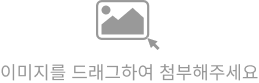
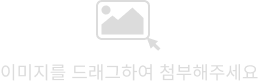
0409_YOO 문의 뼈대제작 진행중...

diff --git a/src/main/resources/templates/backend/book/add.html b/src/main/resources/templates/backend/book/add.html
@@ -36,7 +36,7 @@
             <p>도서표지</p>
             <div id="drop_zone" class="drag_img_form">
               <img id="image-preview" alt="">
-              <button type="button" class="img_delete_btn"></button>
+              <button type="button" class="img_delete_btn" onclick="clickdelete()"></button>
             </div>
             <input type="text" th:field="*{bookImg}" class="image-input-form" placeholder="이미지를 첨부해주세요." readonly>
 
@@ -87,7 +87,7 @@
           <br>
           <div class="add_input_wrap">
             <p>책파일</p>
-            <input type="file" th:field="*{bookFile}" placeholder="*PDF 파일만 첨부가 가능합니다.">
+            <input type="text" th:field="*{bookFile}" placeholder="*PDF 파일만 첨부가 가능합니다." class="text_drag">
           </div>
           <div class="add_input_wrap">
             <p>전자도서 판매가</p>
@@ -122,13 +122,19 @@
   ['dragenter', 'dragover'].forEach(eventName => {
     document.getElementById('drop_zone').addEventListener(eventName, highlight, false)
   });
-
-  ['dragleave', 'drop'].forEach(eventName => {
+  ['dropleave'].forEach(eventName => {
+    document.getElementById('drop_zone').addEventListener(eventName, highlightlv, false)
+  });
+  ['drop'].forEach(eventName => {
     document.getElementById('drop_zone').addEventListener(eventName, unhighlight, false)
   });
 
   function highlight(e) {
-    document.getElementById('drop_zone').style.backgroundColor = '#dcdcdc';
+    document.getElementById('drop_zone').style.backgroundColor = '#fafafa';
+  }
+
+  function highlightlv(e) {
+    document.getElementById('drop_zone').style.backgroundColor = '#ffffff';
   }
 
   function unhighlight(e) {
@@ -157,12 +163,99 @@
     reader.onloadend = function() {
       let img = document.getElementById('image-preview');
       let deleteBtn = document.querySelector('.img_delete_btn');
+      let dropZone = document.getElementById('drop_zone');
       img.src = reader.result;
       deleteBtn.style.display = 'block';
+<!--      dropZone.style.backgroundImage = 'url()';-->
     }
     reader.readAsDataURL(file);
   }
 
+  function clickdelete(e){
+    // 이미지 삭제 버튼에 클릭 이벤트 리스너 추가
+    document.querySelector('.img_delete_btn').addEventListener('click', function() {
+      // 이미지 미리보기 초기화
+      document.getElementById('image-preview').src = '';
 
+      // 'bookImg' 요소의 값 초기화
+      document.getElementById('bookImg').value = '';
+
+      //버튼 다시 삭제
+      document.querySelector('.img_delete_btn').style.display = 'none';
+
+      // 드래그 배경 색 수정
+      document.getElementById('drop_zone').style.backgroundColor = '#ffffff';
+<!--      let bgImgUrl = "../img/img_drag.png";-->
+<!--      let dropZone = document.getElementById('drop_zone');-->
+<!--      dropZone.style.backgroundImage = "url('" + bgImgUrl + "')";-->
+
+      // 이미지 삭제 버튼 숨기기
+      this.style.display = 'none';
+    });
+  }
+
+
+
+</script>
+<script>
+  function upload() {
+  const imageInput = $("#imageInput")[0];
+  // 파일을 여러개 선택할 수 있으므로 files 라는 객체에 담긴다.
+  console.log("imageInput: ", imageInput.files)
+
+  if(imageInput.files.length === 0){
+    alert("파일은 선택해주세요");
+    return;
+  }
+
+  const formData = new FormData();
+  formData.append("image", imageInput.files[0]);
+
+
+  $.ajax({
+    type:"POST",
+    url: "function upload() {
+  const imageInput = $("#imageInput")[0];
+  // 파일을 여러개 선택할 수 있으므로 files 라는 객체에 담긴다.
+  console.log("imageInput: ", imageInput.files)
+
+  if(imageInput.files.length === 0){
+    alert("파일은 선택해주세요");
+    return;
+  }
+
+  const formData = new FormData();
+  formData.append("image", imageInput.files[0]);
+
+
+  $.ajax({
+    type:"POST",
[1 lines of base64/hex data omitted]
+    processData: false,
+    contentType: false,
+    data: formData,
+    success: function(rtn){
+      const message = rtn.data.values[0];
+      console.log("message: ", message)
+      $("#resultUploadPath").text(message.uploadFilePath)
+    },
+    err: function(err){
+      console.log("err:", err)
+    }
+  })
+}",
+    processData: false,
+    contentType: false,
+    data: formData,
+    success: function(rtn){
+      const message = rtn.data.values[0];
+      console.log("message: ", message)
+      $("#resultUploadPath").text(message.uploadFilePath)
+    },
+    err: function(err){
+      console.log("err:", err)
+    }
+  })
+}
 </script>
 </html>

diff --git a/src/main/resources/templates/backend/banner/list.html b/src/main/resources/templates/backend/banner/list.html
@@ -1,0 +1,61 @@
+<!DOCTYPE html>
+<html lang="ko" xmlns:th="http://www.thymeleaf.org">
+<body>
+<th:block th:replace="~{backend/layouts/base :: base(~{this::content})}">
+    <th:block th:fragment="content">
+        <div class="search_bar_wrap">
+            <div class="search_date_wrap">
+                <div class="item">
+                    <h2>배너관리</h2>
+                </div>
+                <div class="item">
+                    <button type="button" class="grey_btn">오늘</button>
+                    <button type="button" class="grey_btn">일주일</button>
+                    <button type="button" class="grey_btn">한달</button>
+                    <input type="date" />
+                    <input type="date" />
+                    <button type="button" class="black_btn">조회</button>
+                </div>
+            </div>
+            <hr />
+            <div class="search_text_wrap">
+                <div class="item">
+                    <select name="" id="">
+                        <option value="">전체</option>
+                    </select>
+                    <input type="text" />
+                    <button type="button" class="black_btn">검색</button>
+                </div>
+                <div class="item">
+                    <select name="" id="">
+                        <option value="">최신순</option>
+                        <option value="">이전순</option>
+                    </select>
+                    <button type="button" class="black_btn" th:onclick="|location.href='@{/cms/}'|">카테고리관리</button>
+                    <button type="button" class="black_btn" th:onclick="|location.href='@{/cms/}'|">추가</button>
+
+                </div>
+            </div>
+            <div class="list_table_wrap">
+                <table class="list_table">
+                    <tr>
+                        <th>NO</th>
+                        <th>항목</th>
+                        <th>수정일</th>
+                        <th>등록일</th>
+                    </tr>
+                    <tr>
+                        <th>NO</th>
+                        <th>항목</th>
+                        <th>수정일</th>
+                        <th>등록일</th>
+                    </tr>
+                </table>
+            </div>
+        </div>
+    </th:block>
+</th:block>
+<script>
+</script>
+</body>
+</html>

diff --git a/src/main/resources/templates/backend/inquiry/list.html b/src/main/resources/templates/backend/inquiry/list.html
@@ -1,0 +1,61 @@
+<!DOCTYPE html>
+<html lang="ko" xmlns:th="http://www.thymeleaf.org">
+<body>
+<th:block th:replace="~{backend/layouts/base :: base(~{this::content})}">
+    <th:block th:fragment="content">
+        <div class="search_bar_wrap">
+            <div class="search_date_wrap">
+                <div class="item">
+                    <h2>문의관리</h2>
+                </div>
+                <div class="item">
+                    <button type="button" class="grey_btn">오늘</button>
+                    <button type="button" class="grey_btn">일주일</button>
+                    <button type="button" class="grey_btn">한달</button>
+                    <input type="date" />
+                    <input type="date" />
+                    <button type="button" class="black_btn">조회</button>
+                </div>
+            </div>
+            <hr />
+            <div class="search_text_wrap">
+                <div class="item">
+                    <select name="" id="">
+                        <option value="">전체</option>
+                    </select>
+                    <input type="text" />
+                    <button type="button" class="black_btn">검색</button>
+                </div>
+                <div class="item">
+                    <select name="" id="">
+                        <option value="">최신순</option>
+                        <option value="">이전순</option>
+                    </select>
+                    <button type="button" class="black_btn" th:onclick="|location.href='@{/cms/}'|">카테고리관리</button>
+                    <button type="button" class="black_btn" th:onclick="|location.href='@{/cms/}'|">추가</button>
+
+                </div>
+            </div>
+            <div class="list_table_wrap">
+                <table class="list_table">
+                    <tr>
+                        <th>NO</th>
+                        <th>항목</th>
+                        <th>수정일</th>
+                        <th>등록일</th>
+                    </tr>
+                    <tr>
+                        <th>NO</th>
+                        <th>항목</th>
+                        <th>수정일</th>
+                        <th>등록일</th>
+                    </tr>
+                </table>
+            </div>
+        </div>
+    </th:block>
+</th:block>
+<script>
+</script>
+</body>
+</html>

diff --git a/src/main/resources/static/css/style.css b/src/main/resources/static/css/style.css
@@ -307,7 +307,7 @@ div.top_st_bar > span{
     height:260px;
     border:1px dashed var(--maingr00);
     border-radius:4px;
-    background-color:#fafafa;
+    background-color:#ffffff;
     background-image:url("../img/img_drag.png");
     background-position:center;
     background-repeat:no-repeat;

diff --git a/src/main/resources/templates/backend/display/detail.html b/src/main/resources/templates/backend/display/detail.html
@@ -1,0 +1,10 @@
+<!DOCTYPE html>
+<html lang="ko" xmlns:th="http://www.thymeleaf.org">
+<head>
+    <meta charset="UTF-8">
+    <title>Title</title>
+</head>
+<body>
+
+</body>
+</html>

diff --git a/src/main/resources/templates/backend/display/modify.html b/src/main/resources/templates/backend/display/modify.html
@@ -1,0 +1,10 @@
+<!DOCTYPE html>
+<html lang="ko" xmlns:th="http://www.thymeleaf.org">
+<head>
+    <meta charset="UTF-8">
+    <title>Title</title>
+</head>
+<body>
+
+</body>
+</html>

diff --git a/src/main/java/com/jpa4/pj1984/controller/UploadController.java b/src/main/java/com/jpa4/pj1984/controller/UploadController.java
@@ -1,0 +1,19 @@
+package com.jpa4.pj1984.controller;
+
+import lombok.extern.slf4j.Slf4j;
+import org.springframework.web.bind.annotation.PostMapping;
+import org.springframework.web.bind.annotation.RestController;
+import org.springframework.web.multipart.MultipartFile;
+
+@RestController
+@Slf4j
+public class UploadController {
+    @PostMapping("/uploadAjax")
+    public void uploadFile(MultipartFile[] uploadFiles){
+        for (MultipartFile uploadFile: uploadFiles){
+            String originalName = uploadFile.getOriginalFilename();
+            String fileName = originalName.substring(originalName.lastIndexOf("\\") + 1);
+
+        }
+    }
+}

diff --git a/src/main/java/com/jpa4/pj1984/controller/InquiryController.java b/src/main/java/com/jpa4/pj1984/controller/InquiryController.java
@@ -1,0 +1,21 @@
+package com.jpa4.pj1984.controller;
+
+import lombok.RequiredArgsConstructor;
+import lombok.extern.slf4j.Slf4j;
+import org.springframework.stereotype.Controller;
+import org.springframework.ui.Model;
+import org.springframework.web.bind.annotation.GetMapping;
+import org.springframework.web.bind.annotation.RequestMapping;
+
+@Controller
+@Slf4j
+@RequestMapping("/cms")
+@RequiredArgsConstructor
+public class InquiryController {
+    //문의리스트
+    @GetMapping("/inquiry/list")
+    public String inquiryList(Model model){
+        log.info("--CMS--inquiry--List--Request--");
+        return "backend/inquiry/list";
+    }
+}

diff --git a/src/main/java/com/jpa4/pj1984/domain/Inquiry.java b/src/main/java/com/jpa4/pj1984/domain/Inquiry.java
@@ -1,0 +1,17 @@
+package com.jpa4.pj1984.domain;
+
+import jakarta.persistence.Entity;
+import jakarta.persistence.GeneratedValue;
+import jakarta.persistence.GenerationType;
+import jakarta.persistence.Id;
+import lombok.Getter;
+import lombok.Setter;
+
+@Getter
+@Setter
+@Entity
+public class Inquiry extends TimeEntity{
+    @Id @GeneratedValue(strategy = GenerationType.IDENTITY)
+    private Long inquiryId;
+
+}

diff --git a/src/main/java/com/jpa4/pj1984/service/BookService.java b/src/main/java/com/jpa4/pj1984/service/BookService.java
@@ -31,6 +31,9 @@ public class BookService {
 
     //저장
     public void save(BookForm bookForm) throws IOException{
+        String projectPath = System.getProperty("user.dir") + "";
+
+
         ProductFile bookFile = fileUploadService.saveFile(bookForm.getBookFile());
         Book bookSaved = bookRepository.save(bookForm.toEntity());
     }

diff --git a/src/main/java/com/jpa4/pj1984/dto/InquiryDTO.java b/src/main/java/com/jpa4/pj1984/dto/InquiryDTO.java
@@ -1,0 +1,16 @@
+package com.jpa4.pj1984.dto;
+
+import com.jpa4.pj1984.domain.Inquiry;
+import lombok.Data;
+
+@Data
+public class InquiryDTO {
+    private Long inquiryId;
+
+    //Entity -> DTO
+    public InquiryDTO(Inquiry inquiry){
+        this.inquiryId = inquiry.getInquiryId();
+    }
+}
+
+

diff --git a/src/main/java/com/jpa4/pj1984/repository/InquiryRepository.java b/src/main/java/com/jpa4/pj1984/repository/InquiryRepository.java
@@ -1,0 +1,7 @@
+package com.jpa4.pj1984.repository;
+
+import com.jpa4.pj1984.domain.Inquiry;
+import org.springframework.data.jpa.repository.JpaRepository;
+
+public interface InquiryRepository extends JpaRepository<Inquiry, Long> {
+}
